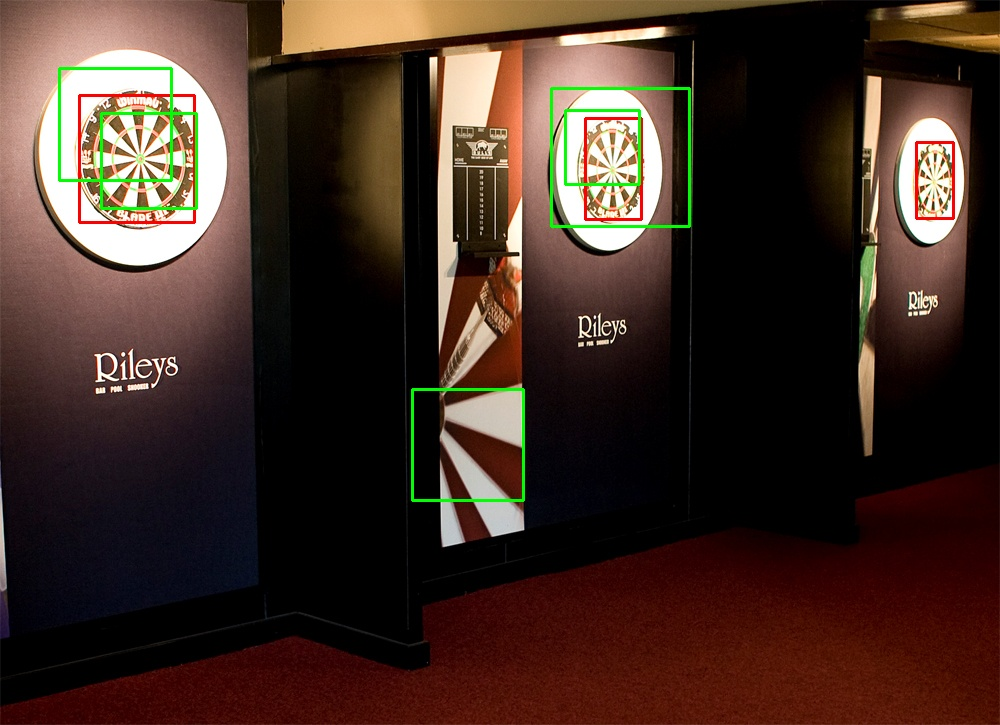
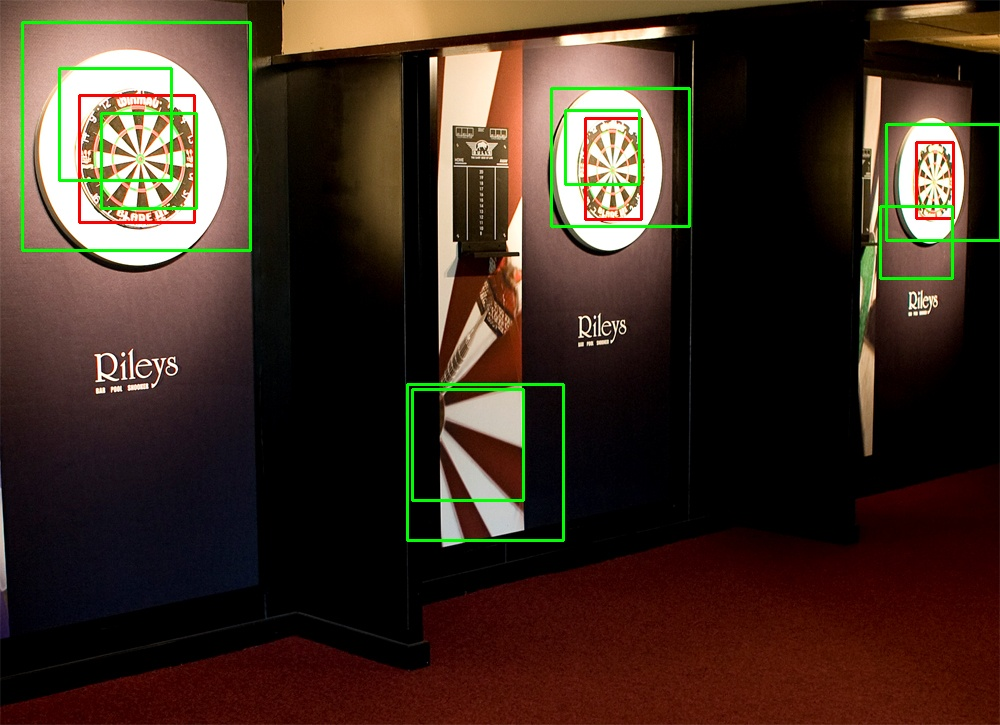
Adjust VJ detections to have more False Positives

Changed region(s): [[0.0, 0.0, 0.279, 0.3641], [0.868, 0.1517, 1.0, 0.3945], [0.403, 0.5159, 0.589, 0.7586]]

diff --git a/util.py b/util.py
@@ -69,4 +69,4 @@ def load_ground_truth(ground_truth_file):
 
 def viola_jones_detection(cascade_file, gray_image):
   cascade_classifier = cv2.CascadeClassifier(cascade_file)
-  return cascade_classifier.detectMultiScale(gray_image, 1.3, 2, 0, (50, 50), (500, 500))
+  return cascade_classifier.detectMultiScale(gray_image, 1.1, 1, 0, (50, 50), (500, 500))
